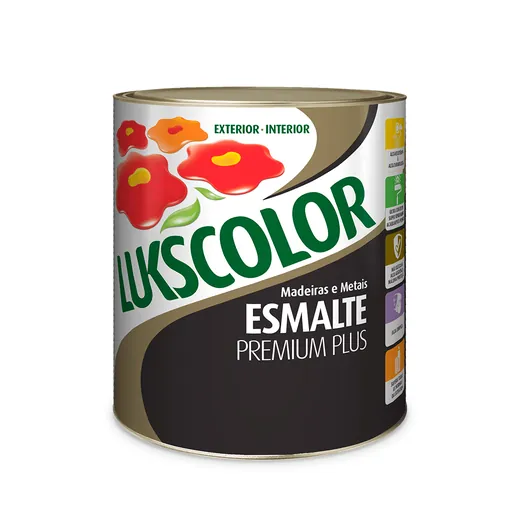
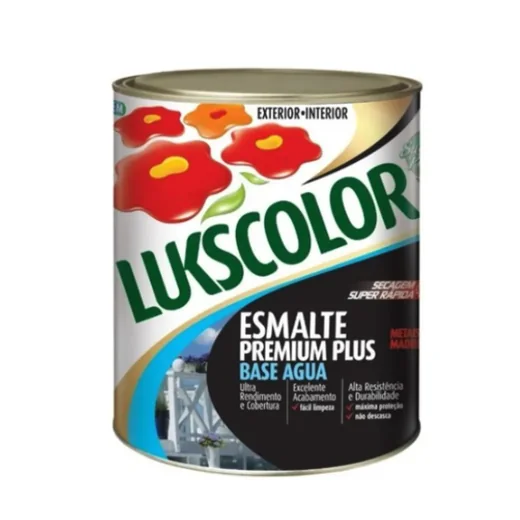
Repõe as fotos do Fosco Completo 3,6L e do Lukscolor base água 900ml
Duas das quatro fotos que faltavam chegaram certas. O Lukscolor agora é a
lata que diz BASE ÁGUA no rótulo, não a base solvente que estava antes.

24 dos 26 produtos com foto. Seguem faltando o Esmalte Sintético 900ml e
a Massa Acrílica 3,6L: as fotos enviadas para esses dois são de outro
tamanho — um galão de 3,6L e um balde de 25 kg.

diff --git a/dados.js b/dados.js
@@ -330,8 +330,7 @@ const PRODUTOS = [
 
   { id: 14, set: ['interna', 'externa'], marca: 'Qualyvinil',
     nome: 'Fosco Completo Acrílico Premium 3,6L', preco: 130.00,
-    /* foto retirada: foto era de Acrílica Cor Econômico, não Fosco Completo (+ marca d'água 'Loja das Tintas') */
-    foto: null, cor: 'maquina', oferta: false },
+    foto: 'qualy-fosco-completo-36l', cor: 'maquina', oferta: false },
 
   /* ---- madeira e metal: esmaltes ---- */
   { id: 15, set: 'madeira', marca: 'Maza',
@@ -348,8 +347,7 @@ const PRODUTOS = [
 
   { id: 18, set: 'madeira', marca: 'Lukscolor',
     nome: 'Esmalte Base Água Premium Plus 900ml', preco: 49.90,
-    /* foto retirada: foto era do Esmalte Premium Plus BASE SOLVENTE, não base água */
-    foto: null, cor: 'prontas', carta: 'esmalte', oferta: false },
+    foto: 'lukscolor-esmalte-900ml', cor: 'prontas', carta: 'esmalte', oferta: false },
 
   { id: 19, set: 'madeira', marca: 'Qualyvinil',
     nome: 'Esmalte Sintético Standard 3,6L', preco: 135.00,
